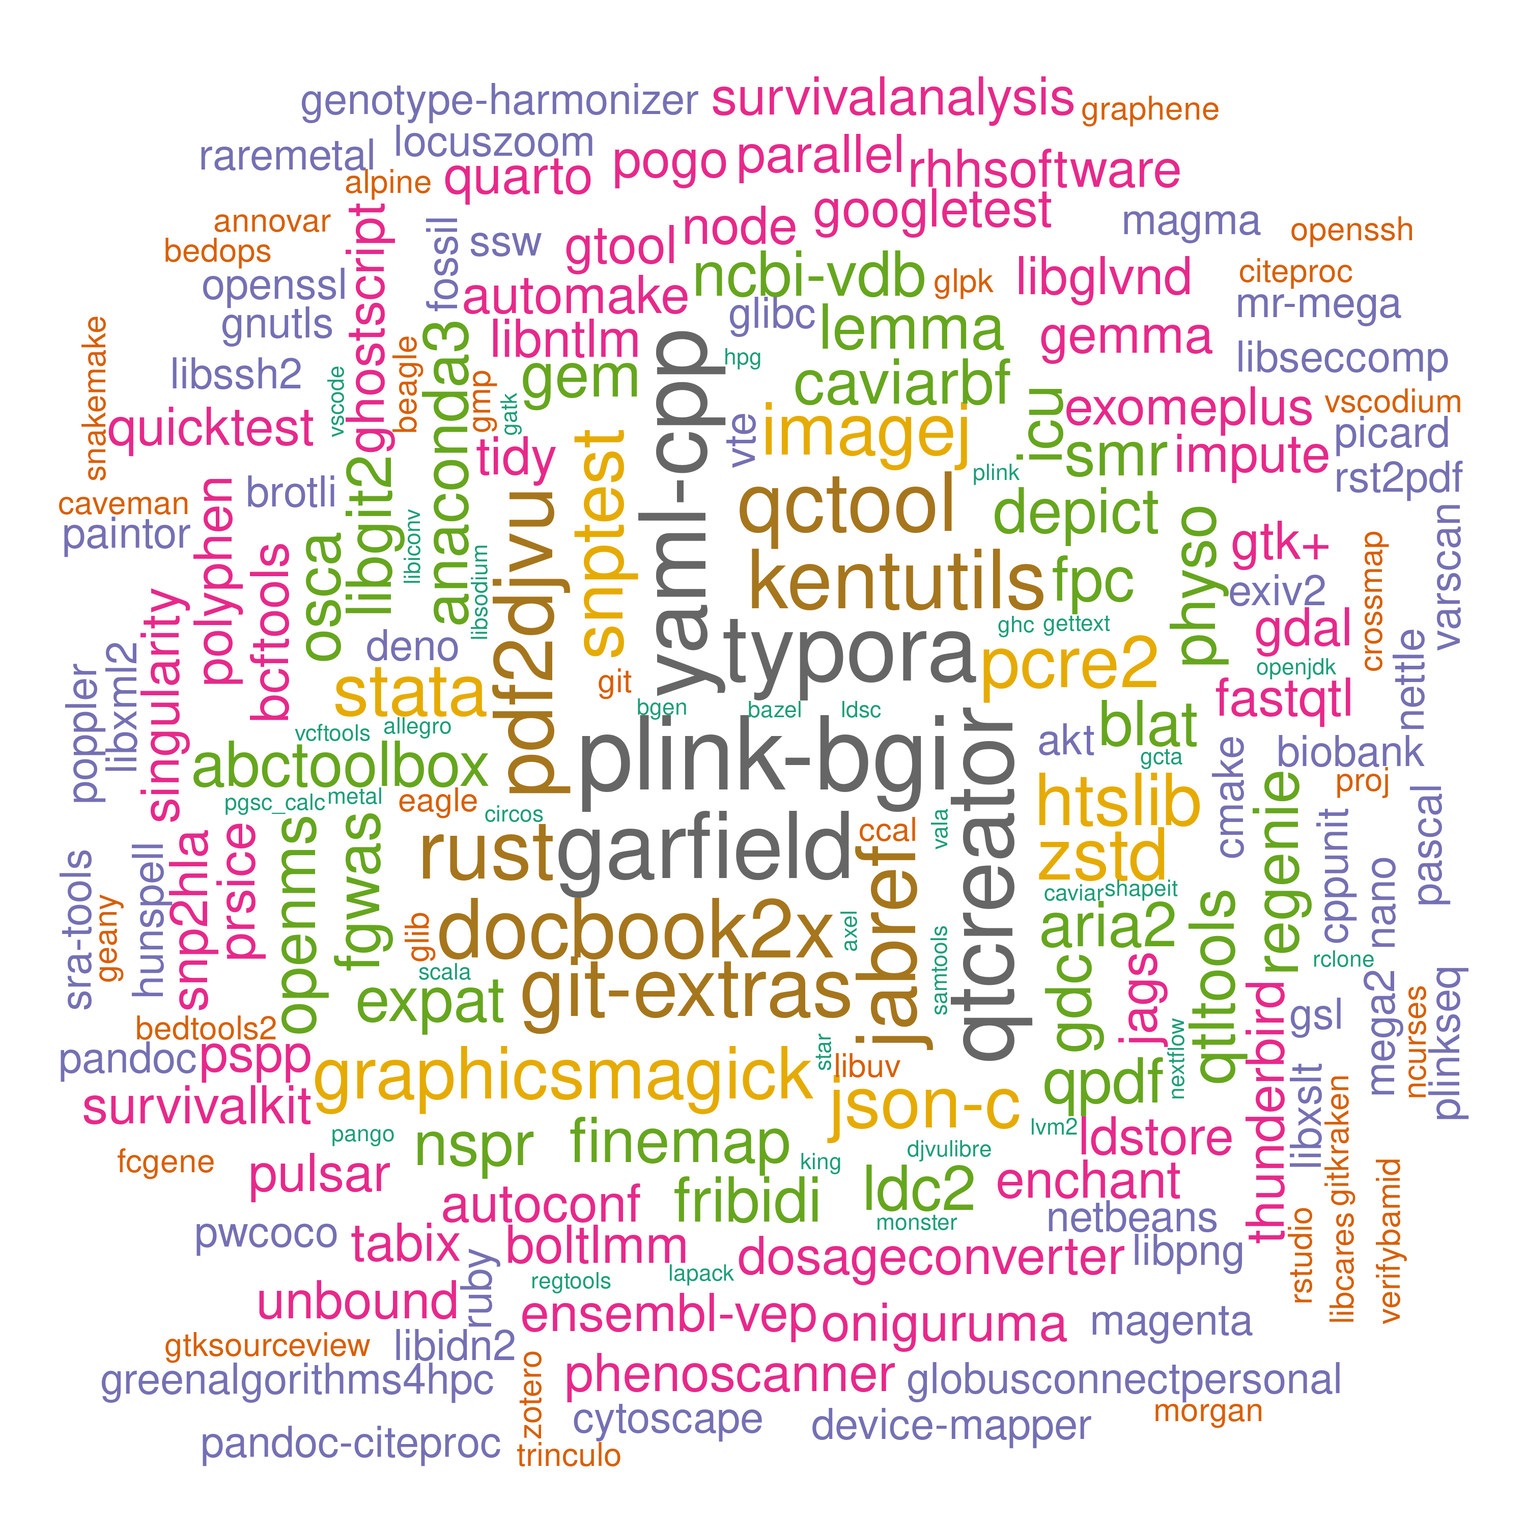
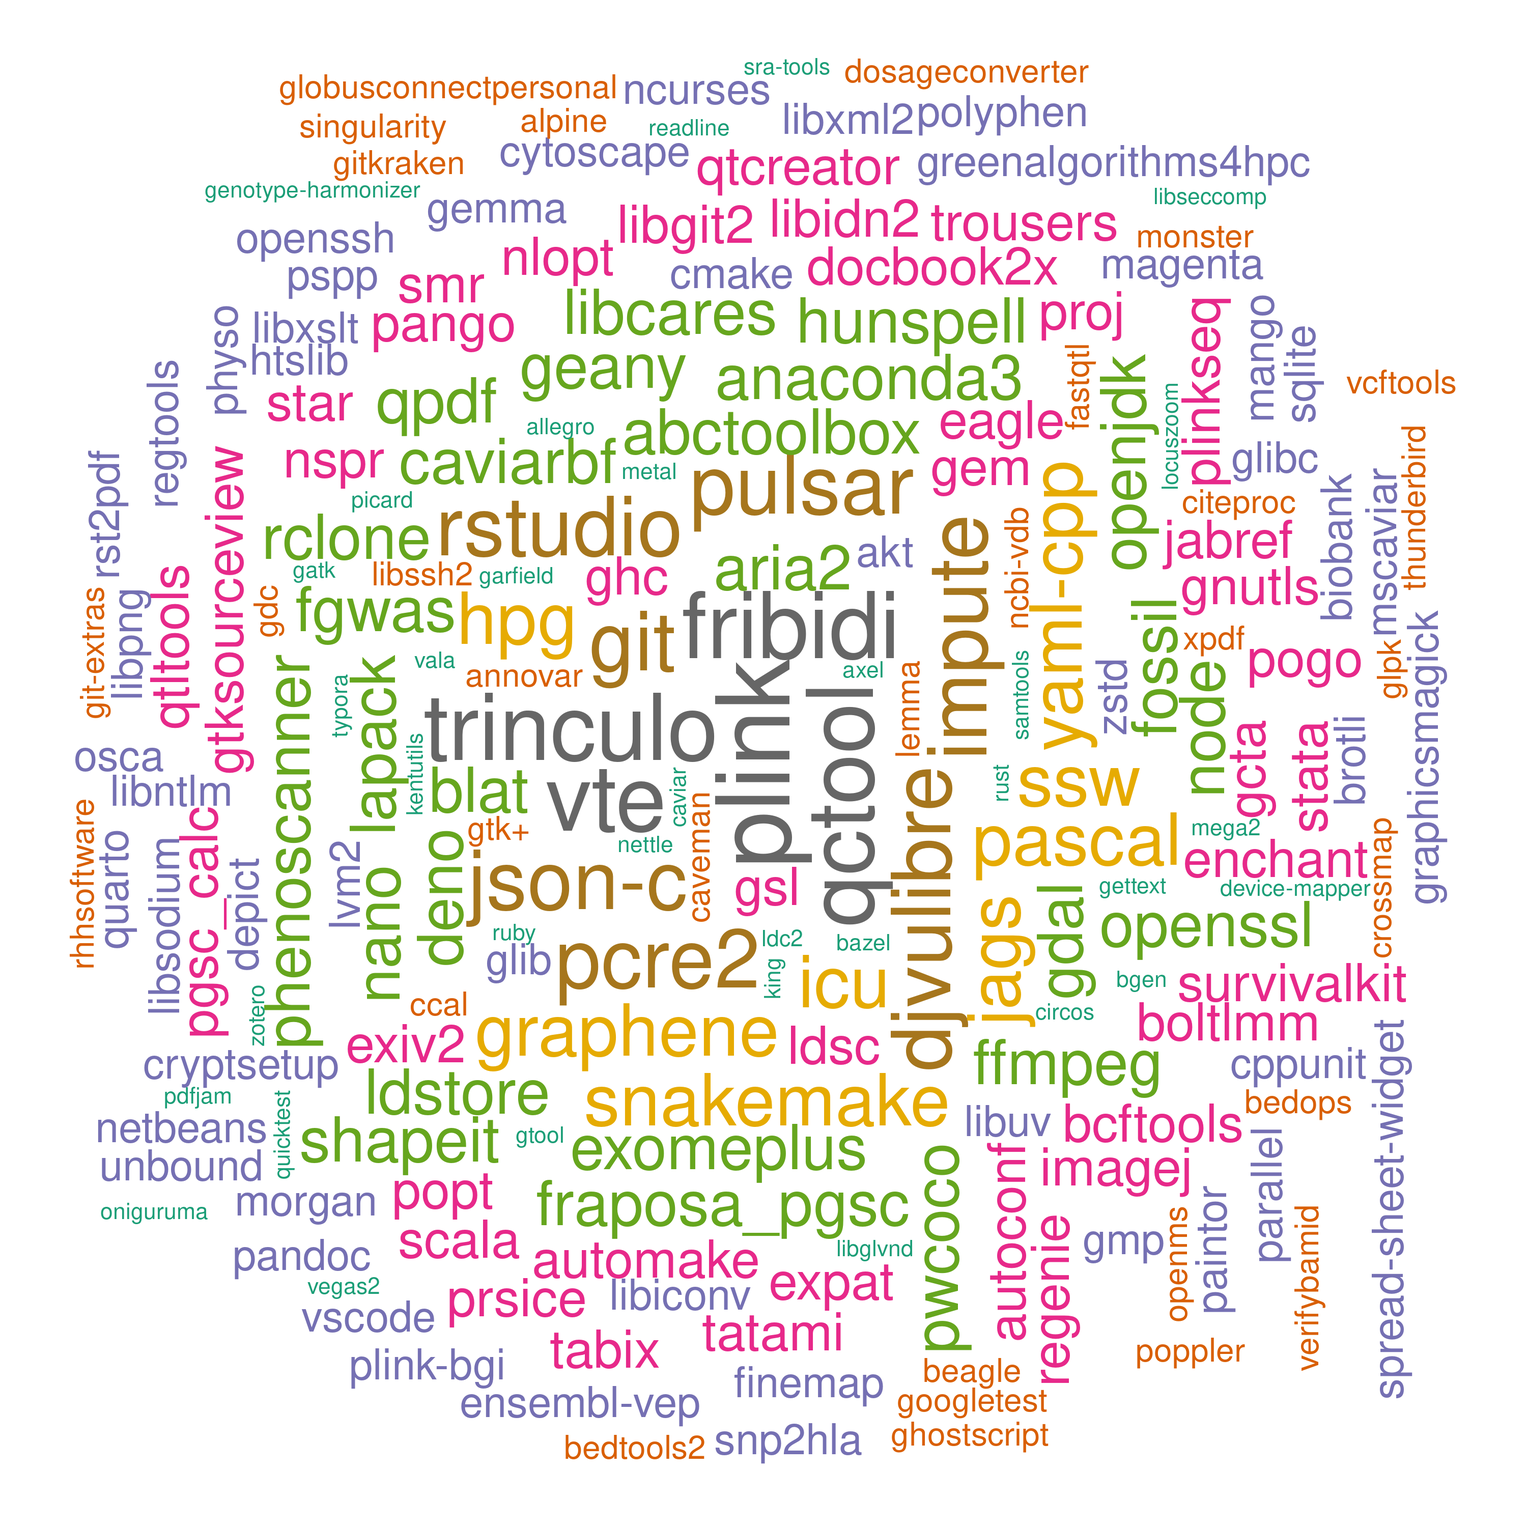
./

Changed region(s): [[0.031, 0.031, 0.961, 0.961]]

diff --git a/systems/files/ceuadmin.md b/systems/files/ceuadmin.md
@@ -12,54 +12,54 @@ The current list is as follows[^ls],
  [17] "biobank"               "blat"                  "boltlmm"               "brotli"
  [21] "busybox"               "CaVEMaN"               "CAVIAR"                "CAVIARBF"
  [25] "ccal"                  "circos"                "citeproc"              "cmake"
- [29] "cppunit"               "crossmap"              "Cytoscape"             "deno"
- [33] "DEPICT"                "device-mapper"         "DjVuLibre"             "docbook2X"
- [37] "DosageConverter"       "Eagle"                 "enchant"               "ensembl-vep"
- [41] "exiv2"                 "exomeplus"             "expat"                 "FastQTL"
- [45] "fcGENE"                "ffmpeg"                "fgwas"                 "finemap"
- [49] "fossil"                "fpc"                   "fraposa_pgsc"          "fribidi"
- [53] "GARFIELD"              "gatk"                  "gcta"                  "gdal"
- [57] "gdc"                   "geany"                 "GEM"                   "GEMMA"
- [61] "Genotype-Harmonizer"   "gettext"               "gh"                    "ghc"
- [65] "ghostscript"           "git"                   "git-extras"            "GitKraken"
- [69] "glib"                  "glibc"                 "globusconnectpersonal" "glpk"
- [73] "gmp"                   "gnutls"                "go"                    "googletest"
- [77] "graphene"              "GraphicsMagick"        "GreenAlgorithms4HPC"   "gsl"
- [81] "gtk+"                  "gtksourceview"         "gtool"                 "hpg"
- [85] "htslib"                "hunspell"              "icu"                   "ImageJ"
- [89] "impute"                "JabRef"                "JAGS"                  "jq"
- [93] "json-c"                "KentUtils"             "KING"                  "lapack"
- [97] "ldc2"                  "ldsc"                  "LDstore"               "LEMMA"
-[101] "libcares"              "libgit2"               "libglvnd"              "libiconv"
-[105] "libidn2"               "libntlm"               "libpng"                "libseccomp"
-[109] "libsodium"             "libssh2"               "libuv"                 "libxml2"
-[113] "libxslt"               "locuszoom"             "LVM2"                  "MAGENTA"
-[117] "magma"                 "Mango"                 "Mega2"                 "metal"
-[121] "MONSTER"               "MORGAN"                "MR-MEGA"               "MsCAVIAR"
-[125] "nano"                  "ncbi-vdb"              "ncurses"               "netbeans"
-[129] "nettle"                "nextflow"              "NLopt"                 "node"
-[133] "nspr"                  "oniguruma"             "openjdk"               "OpenMS"
-[137] "openssh"               "openssl"               "osca"                  "PAINTOR"
-[141] "pandoc"                "pandoc-citeproc"       "pango"                 "parallel"
-[145] "Pascal"                "pcre2"                 "pdf2djvu"              "pdfjam"
-[149] "pgsc_calc"             "phenoscanner"          "PhySO"                 "picard"
-[153] "plink"                 "plink-bgi"             "plinkseq"              "PoGo"
-[157] "polyphen"              "poppler"               "proj"                  "PRSice"
-[161] "pspp"                  "pulsar"                "PWCoCo"                "qctool"
-[165] "qpdf"                  "qt"                    "qtcreator"             "QTLtools"
-[169] "quarto"                "quicktest"             "R"                     "raremetal"
-[173] "rclone"                "readline"              "regenie"               "regtools"
-[177] "RHHsoftware"           "rst2pdf"               "rstudio"               "ruby"
-[181] "rust"                  "samtools"              "Scala"                 "shapeit"
-[185] "singularity"           "SMR"                   "snakemake"             "SNP2HLA"
-[189] "snptest"               "spread-sheet-widget"   "sqlite"                "sra-tools"
-[193] "ssw"                   "STAR"                  "stata"                 "SurvivalAnalysis"
-[197] "SurvivalKit"           "Swift"                 "tabix"                 "tatami"
-[201] "thunderbird"           "tidy"                  "trinculo"              "trousers"
-[205] "Typora"                "unbound"               "vala"                  "VarScan"
-[209] "vcftools"              "VEGAS2"                "verifyBamID"           "VSCode"
-[213] "VSCodium"              "vte"                   "xpdf"                  "yaml-cpp"
-[217] "Zotero"                "zstd"
+ [29] "cppunit"               "crossmap"              "cryptsetup"            "Cytoscape"
+ [33] "deno"                  "DEPICT"                "device-mapper"         "DjVuLibre"
+ [37] "docbook2X"             "DosageConverter"       "Eagle"                 "enchant"
+ [41] "ensembl-vep"           "exiv2"                 "exomeplus"             "expat"
+ [45] "FastQTL"               "fcGENE"                "ffmpeg"                "fgwas"
+ [49] "finemap"               "fossil"                "fpc"                   "fraposa_pgsc"
+ [53] "fribidi"               "GARFIELD"              "gatk"                  "gcta"
+ [57] "gdal"                  "gdc"                   "geany"                 "GEM"
+ [61] "GEMMA"                 "Genotype-Harmonizer"   "gettext"               "gh"
+ [65] "ghc"                   "ghostscript"           "git"                   "git-extras"
+ [69] "GitKraken"             "glib"                  "glibc"                 "globusconnectpersonal"
+ [73] "glpk"                  "gmp"                   "gnutls"                "go"
+ [77] "googletest"            "graphene"              "GraphicsMagick"        "GreenAlgorithms4HPC"
+ [81] "gsl"                   "gtk+"                  "gtksourceview"         "gtool"
+ [85] "hpg"                   "htslib"                "hunspell"              "icu"
+ [89] "ImageJ"                "impute"                "JabRef"                "JAGS"
+ [93] "jq"                    "json-c"                "KentUtils"             "KING"
+ [97] "lapack"                "ldc2"                  "ldsc"                  "LDstore"
+[101] "LEMMA"                 "libcares"              "libgit2"               "libglvnd"
+[105] "libiconv"              "libidn2"               "libntlm"               "libpng"
+[109] "libseccomp"            "libsodium"             "libssh2"               "libuv"
+[113] "libxml2"               "libxslt"               "locuszoom"             "LVM2"
+[117] "MAGENTA"               "magma"                 "Mango"                 "Mega2"
+[121] "metal"                 "MONSTER"               "MORGAN"                "MR-MEGA"
+[125] "MsCAVIAR"              "nano"                  "ncbi-vdb"              "ncurses"
+[129] "netbeans"              "nettle"                "nextflow"              "NLopt"
+[133] "node"                  "nspr"                  "oniguruma"             "openjdk"
+[137] "OpenMS"                "openssh"               "openssl"               "osca"
+[141] "PAINTOR"               "pandoc"                "pandoc-citeproc"       "pango"
+[145] "parallel"              "Pascal"                "pcre2"                 "pdf2djvu"
+[149] "pdfjam"                "pgsc_calc"             "phenoscanner"          "PhySO"
+[153] "picard"                "plink"                 "plink-bgi"             "plinkseq"
+[157] "PoGo"                  "polyphen"              "poppler"               "popt"
+[161] "proj"                  "PRSice"                "pspp"                  "pulsar"
+[165] "PWCoCo"                "qctool"                "qpdf"                  "qt"
+[169] "qtcreator"             "QTLtools"              "quarto"                "quicktest"
+[173] "R"                     "raremetal"             "rclone"                "readline"
+[177] "regenie"               "regtools"              "RHHsoftware"           "rst2pdf"
+[181] "rstudio"               "ruby"                  "rust"                  "samtools"
+[185] "Scala"                 "shapeit"               "singularity"           "SMR"
+[189] "snakemake"             "SNP2HLA"               "snptest"               "spread-sheet-widget"
+[193] "sqlite"                "sra-tools"             "ssw"                   "STAR"
+[197] "stata"                 "SurvivalAnalysis"      "SurvivalKit"           "Swift"
+[201] "tabix"                 "tatami"                "thunderbird"           "tidy"
+[205] "trinculo"              "trousers"              "Typora"                "unbound"
+[209] "vala"                  "VarScan"               "vcftools"              "VEGAS2"
+[213] "verifyBamID"           "VSCode"                "VSCodium"              "vte"
+[217] "xpdf"                  "yaml-cpp"              "Zotero"                "zstd"
 ```
 
 Most should be available to all CSD3 users in the whole campus, e.g., for pspp, a brief description of a module is available with
@@ -342,6 +342,7 @@ They are ordered chronologically.
 ! 2024-04-01  | json-c/0.17-20230812-icelake     | Generic[^json-c]     |
 ! ""          | device-mapper/1.02.28-icelake    | Generic              |
 ! ""          | LVM2/2.03.23-icelake             | Generic[^LVM2]       |
+! 2024-04-02  | cryptsetup/2.7.1-icelake         | Generic[^cryptsetup] |
 
 \* CEU or approved users only.
 
@@ -355,6 +356,11 @@ Three aspects are notable,
 A word cloud diagram is generated from the following script
 
 ```bash
+if [ "$(uname -n | sed 's/-[0-9]*$//')" == "login-p" ]; then
+   module load ceuadmin/R
+else
+   module load ceuadmin/R/4.3.3-icelake
+fi
 grep -e Generic ${CEUADMIN}/doc/ceuadmin.md | grep "^[|]" | awk '{print $4}' > generic.lst
 grep -e Genetics ${CEUADMIN}/doc/ceuadmin.md | grep "^[|]" | awk '{print $4}' > genetics.lst
 grep -e Genetics -e Generic ${CEUADMIN}/doc/ceuadmin.md | grep "^[|]" | awk '{print $4}' | wc -l
@@ -869,4 +875,23 @@ Rscript -e '
     ```bash
     make device-mapper
     make install_device-mapper
+    ```
+
+[^cryptsetup]: **cryptosetup**
+
+    ```bash
+    # incomplete libssh in need of a fix
+    module load cmake/3.21.3/intel/wce32356
+    wget -qO- https://www.libssh.org/files/0.10/libssh-0.10.6.tar.xz | \
+    tar xfJ -
+    cd libssh-0.10.6
+    mkdir build && cd build
+    cmake -DCMAKE_INSTALL_PREFIX=$CEUADMIN/libssh/0.10.6-icelake  ..
+    make
+    module load ceuadmin/json-c/0.17-20230812-icelake 
+    module load ceuadmin/LVM2/2.03.23-icelake
+    module load ceuadmin/popt/1.19-icelake
+    module load gettext/0.21/gcc/qnrcglqo
+    CFLAGS="-I/usr/local/Cluster-Apps/ceuadmin/LVM2/2.03.23-icelake/include" \
+    configure --prefix=$CEUADMIN/cryptsetup/2.7.1-icelake --disable-ssh-token
     ```

diff --git a/systems/ceuadmin.md b/systems/ceuadmin.md
@@ -8,7 +8,7 @@ The CEU software repository is here, **/usr/local/Cluster-Apps/ceuadmin/**.
 
 ![ceuadmin](ceuadmin.png)
 
-noting that the importance of software is purely random according to $$Poisson(N,\lambda)$$ where $$N=218$$, $$\lambda=3$$.
+noting that the importance of software is purely random according to $$Poisson(N,\lambda)$$ where $$N=200$$, $$\lambda=3$$.
 
 ## Entries
 
@@ -22,54 +22,54 @@ The current list is as follows,
  [17] "biobank"               "blat"                  "boltlmm"               "brotli"
  [21] "busybox"               "CaVEMaN"               "CAVIAR"                "CAVIARBF"
  [25] "ccal"                  "circos"                "citeproc"              "cmake"
- [29] "cppunit"               "crossmap"              "Cytoscape"             "deno"
- [33] "DEPICT"                "device-mapper"         "DjVuLibre"             "docbook2X"
- [37] "DosageConverter"       "Eagle"                 "enchant"               "ensembl-vep"
- [41] "exiv2"                 "exomeplus"             "expat"                 "FastQTL"
- [45] "fcGENE"                "ffmpeg"                "fgwas"                 "finemap"
- [49] "fossil"                "fpc"                   "fraposa_pgsc"          "fribidi"
- [53] "GARFIELD"              "gatk"                  "gcta"                  "gdal"
- [57] "gdc"                   "geany"                 "GEM"                   "GEMMA"
- [61] "Genotype-Harmonizer"   "gettext"               "gh"                    "ghc"
- [65] "ghostscript"           "git"                   "git-extras"            "GitKraken"
- [69] "glib"                  "glibc"                 "globusconnectpersonal" "glpk"
- [73] "gmp"                   "gnutls"                "go"                    "googletest"
- [77] "graphene"              "GraphicsMagick"        "GreenAlgorithms4HPC"   "gsl"
- [81] "gtk+"                  "gtksourceview"         "gtool"                 "hpg"
- [85] "htslib"                "hunspell"              "icu"                   "ImageJ"
- [89] "impute"                "JabRef"                "JAGS"                  "jq"
- [93] "json-c"                "KentUtils"             "KING"                  "lapack"
- [97] "ldc2"                  "ldsc"                  "LDstore"               "LEMMA"
-[101] "libcares"              "libgit2"               "libglvnd"              "libiconv"
-[105] "libidn2"               "libntlm"               "libpng"                "libseccomp"
-[109] "libsodium"             "libssh2"               "libuv"                 "libxml2"
-[113] "libxslt"               "locuszoom"             "LVM2"                  "MAGENTA"
-[117] "magma"                 "Mango"                 "Mega2"                 "metal"
-[121] "MONSTER"               "MORGAN"                "MR-MEGA"               "MsCAVIAR"
-[125] "nano"                  "ncbi-vdb"              "ncurses"               "netbeans"
-[129] "nettle"                "nextflow"              "NLopt"                 "node"
-[133] "nspr"                  "oniguruma"             "openjdk"               "OpenMS"
-[137] "openssh"               "openssl"               "osca"                  "PAINTOR"
-[141] "pandoc"                "pandoc-citeproc"       "pango"                 "parallel"
-[145] "Pascal"                "pcre2"                 "pdf2djvu"              "pdfjam"
-[149] "pgsc_calc"             "phenoscanner"          "PhySO"                 "picard"
-[153] "plink"                 "plink-bgi"             "plinkseq"              "PoGo"
-[157] "polyphen"              "poppler"               "proj"                  "PRSice"
-[161] "pspp"                  "pulsar"                "PWCoCo"                "qctool"
-[165] "qpdf"                  "qt"                    "qtcreator"             "QTLtools"
-[169] "quarto"                "quicktest"             "R"                     "raremetal"
-[173] "rclone"                "readline"              "regenie"               "regtools"
-[177] "RHHsoftware"           "rst2pdf"               "rstudio"               "ruby"
-[181] "rust"                  "samtools"              "Scala"                 "shapeit"
-[185] "singularity"           "SMR"                   "snakemake"             "SNP2HLA"
-[189] "snptest"               "spread-sheet-widget"   "sqlite"                "sra-tools"
-[193] "ssw"                   "STAR"                  "stata"                 "SurvivalAnalysis"
-[197] "SurvivalKit"           "Swift"                 "tabix"                 "tatami"
-[201] "thunderbird"           "tidy"                  "trinculo"              "trousers"
-[205] "Typora"                "unbound"               "vala"                  "VarScan"
-[209] "vcftools"              "VEGAS2"                "verifyBamID"           "VSCode"
-[213] "VSCodium"              "vte"                   "xpdf"                  "yaml-cpp"
-[217] "Zotero"                "zstd"
+ [29] "cppunit"               "crossmap"              "cryptsetup"            "Cytoscape"
+ [33] "deno"                  "DEPICT"                "device-mapper"         "DjVuLibre"
+ [37] "docbook2X"             "DosageConverter"       "Eagle"                 "enchant"
+ [41] "ensembl-vep"           "exiv2"                 "exomeplus"             "expat"
+ [45] "FastQTL"               "fcGENE"                "ffmpeg"                "fgwas"
+ [49] "finemap"               "fossil"                "fpc"                   "fraposa_pgsc"
+ [53] "fribidi"               "GARFIELD"              "gatk"                  "gcta"
+ [57] "gdal"                  "gdc"                   "geany"                 "GEM"
+ [61] "GEMMA"                 "Genotype-Harmonizer"   "gettext"               "gh"
+ [65] "ghc"                   "ghostscript"           "git"                   "git-extras"
+ [69] "GitKraken"             "glib"                  "glibc"                 "globusconnectpersonal"
+ [73] "glpk"                  "gmp"                   "gnutls"                "go"
+ [77] "googletest"            "graphene"              "GraphicsMagick"        "GreenAlgorithms4HPC"
+ [81] "gsl"                   "gtk+"                  "gtksourceview"         "gtool"
+ [85] "hpg"                   "htslib"                "hunspell"              "icu"
+ [89] "ImageJ"                "impute"                "JabRef"                "JAGS"
+ [93] "jq"                    "json-c"                "KentUtils"             "KING"
+ [97] "lapack"                "ldc2"                  "ldsc"                  "LDstore"
+[101] "LEMMA"                 "libcares"              "libgit2"               "libglvnd"
+[105] "libiconv"              "libidn2"               "libntlm"               "libpng"
+[109] "libseccomp"            "libsodium"             "libssh2"               "libuv"
+[113] "libxml2"               "libxslt"               "locuszoom"             "LVM2"
+[117] "MAGENTA"               "magma"                 "Mango"                 "Mega2"
+[121] "metal"                 "MONSTER"               "MORGAN"                "MR-MEGA"
+[125] "MsCAVIAR"              "nano"                  "ncbi-vdb"              "ncurses"
+[129] "netbeans"              "nettle"                "nextflow"              "NLopt"
+[133] "node"                  "nspr"                  "oniguruma"             "openjdk"
+[137] "OpenMS"                "openssh"               "openssl"               "osca"
+[141] "PAINTOR"               "pandoc"                "pandoc-citeproc"       "pango"
+[145] "parallel"              "Pascal"                "pcre2"                 "pdf2djvu"
+[149] "pdfjam"                "pgsc_calc"             "phenoscanner"          "PhySO"
+[153] "picard"                "plink"                 "plink-bgi"             "plinkseq"
+[157] "PoGo"                  "polyphen"              "poppler"               "popt"
+[161] "proj"                  "PRSice"                "pspp"                  "pulsar"
+[165] "PWCoCo"                "qctool"                "qpdf"                  "qt"
+[169] "qtcreator"             "QTLtools"              "quarto"                "quicktest"
+[173] "R"                     "raremetal"             "rclone"                "readline"
+[177] "regenie"               "regtools"              "RHHsoftware"           "rst2pdf"
+[181] "rstudio"               "ruby"                  "rust"                  "samtools"
+[185] "Scala"                 "shapeit"               "singularity"           "SMR"
+[189] "snakemake"             "SNP2HLA"               "snptest"               "spread-sheet-widget"
+[193] "sqlite"                "sra-tools"             "ssw"                   "STAR"
+[197] "stata"                 "SurvivalAnalysis"      "SurvivalKit"           "Swift"
+[201] "tabix"                 "tatami"                "thunderbird"           "tidy"
+[205] "trinculo"              "trousers"              "Typora"                "unbound"
+[209] "vala"                  "VarScan"               "vcftools"              "VEGAS2"
+[213] "verifyBamID"           "VSCode"                "VSCodium"              "vte"
+[217] "xpdf"                  "yaml-cpp"              "Zotero"                "zstd"
 ```
 
 These are wrapped up as :star::star::star: **[modules](https://modules.readthedocs.io/en/latest/index.html)** :star::star::star:.
